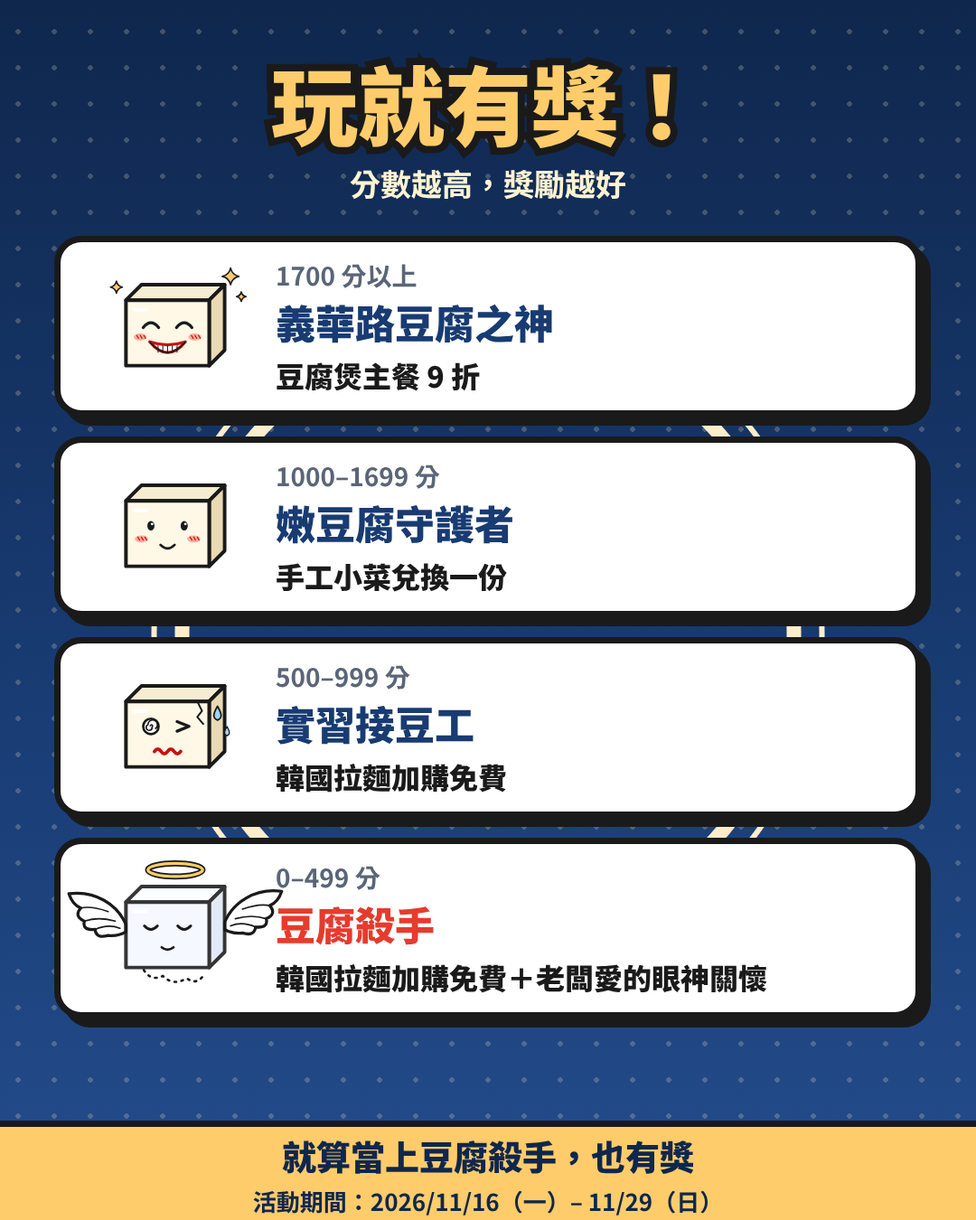
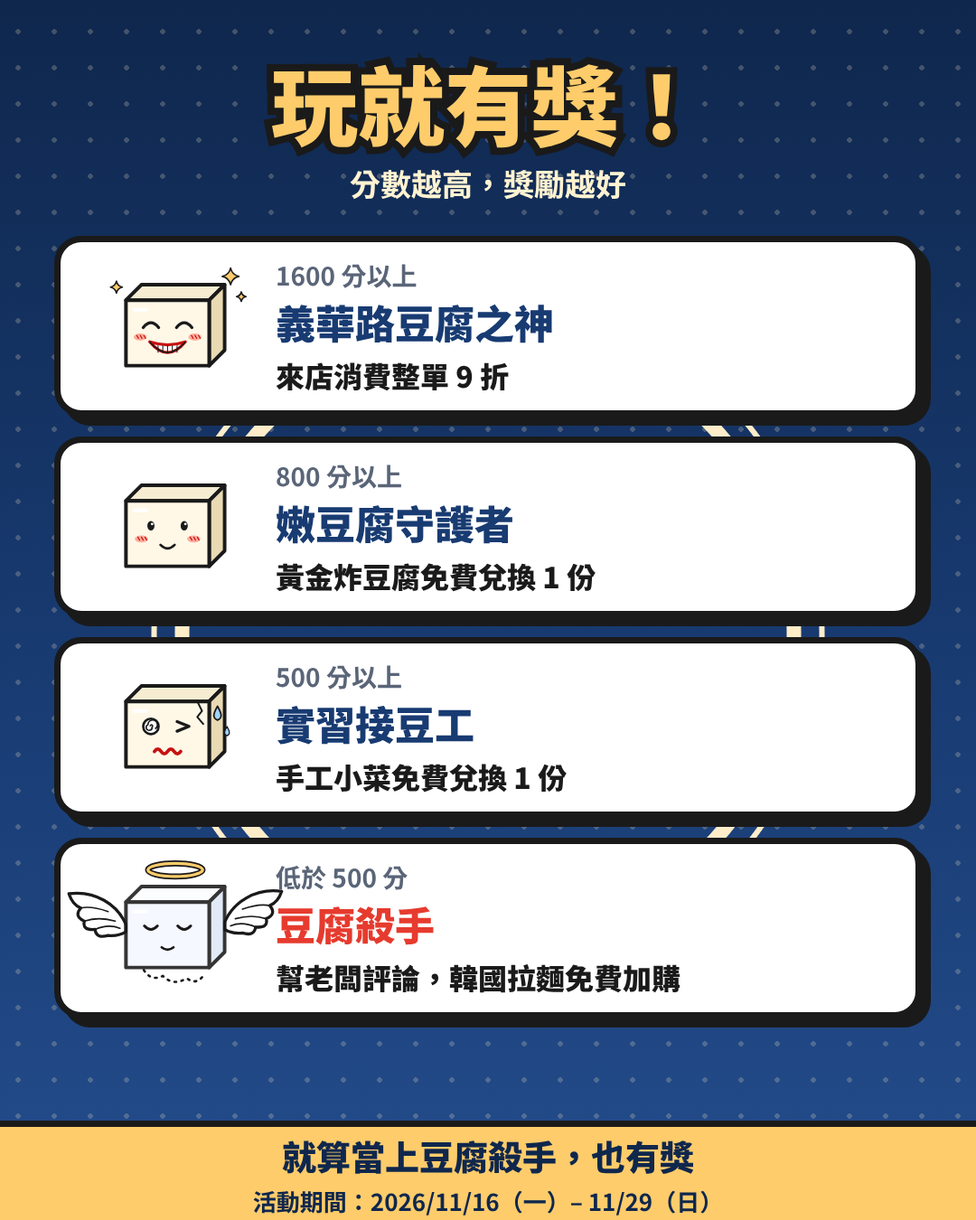
嫩豆腐接接樂：依業主修改調整獎勵與文案
- 獎勵改為 1600 整單 9 折／800 黃金炸豆腐／500 手工小菜／低於 500 幫老闆評論換韓國拉麵
- 遊戲、伺服器判斷、業主專區統計與規則同步
- 社群圖片重新輸出、分享多玩一局改為限時動態並標記

Claude-Session: https://claude.ai/code/session_01R1Sp5wUzmXaVmecPxoYTsS

diff --git a/owner/index.html b/owner/index.html
@@ -36,6 +36,7 @@ h3{font:900 16px/1.3 var(--font);margin:0 0 10px}
 .grid{display:grid;gap:16px}
 @media(min-width:720px){.g2{grid-template-columns:1fr 1fr}.g3{grid-template-columns:repeat(3,1fr)}.g4{grid-template-columns:repeat(4,1fr)}}
 .g4{grid-template-columns:1fr 1fr}
+#kpis{grid-template-columns:repeat(auto-fit,minmax(150px,1fr))}
 .btn{display:inline-flex;align-items:center;justify-content:center;gap:6px;font:900 15px var(--font);padding:10px 16px;border-radius:999px;border:3px solid var(--ink);background:var(--gold-400);color:var(--ink);box-shadow:3px 3px 0 var(--ink);cursor:pointer;text-decoration:none;white-space:nowrap}
 .btn:active{transform:translate(2px,2px);box-shadow:1px 1px 0 var(--ink)}
 .btn.ghost{background:#fff}.btn.danger{background:#fff;color:var(--chili)}
@@ -109,10 +110,11 @@ h3{font:900 16px/1.3 var(--font);margin:0 0 10px}
 <section id="overview">
   <h2>總覽</h2>
   <div class="grid g4" id="kpis">
-    <div class="card kpi"><span>累計兌換</span><b id="kTotal">—</b><small>小菜、拉麵等店內核銷</small></div>
+    <div class="card kpi"><span>累計兌換</span><b id="kTotal">—</b><small>炸豆腐、小菜、拉麵的店內核銷</small></div>
     <div class="card kpi"><span>今天兌換</span><b id="kToday">—</b><small id="kTodayDate">—</small></div>
-    <div class="card kpi"><span>手工小菜</span><b id="kSide">—</b><small>1000–1699 分</small></div>
-    <div class="card kpi"><span>韓國拉麵加購</span><b id="kRamen">—</b><small>0–999 分</small></div>
+    <div class="card kpi"><span>黃金炸豆腐</span><b id="kFried">—</b><small>800–1599 分</small></div>
+    <div class="card kpi"><span>手工小菜</span><b id="kSide">—</b><small>500–799 分</small></div>
+    <div class="card kpi"><span>韓國拉麵（評論）</span><b id="kRamen">—</b><small>低於 500 分</small></div>
   </div>
   <p class="muted" id="kHint">輸入業主 PIN 後顯示兌換數字。<a href="#records">前往兌換紀錄</a></p>
 
@@ -129,12 +131,12 @@ h3{font:900 16px/1.3 var(--font);margin:0 0 10px}
       </div>
     </div>
     <div class="card">
-      <h3>九折折扣碼（1700 分以上）</h3>
+      <h3>整單九折折扣碼（1600 分以上）</h3>
       <div class="link">
         <div class="qr"><svg width="33mm" height="33mm" version="1.1" viewBox="0 0 33 33" xmlns="http://www.w3.org/2000/svg"><path d="M2,2H3V3H2zM3,2H4V3H3zM4,2H5V3H4zM5,2H6V3H5zM6,2H7V3H6zM7,2H8V3H7zM8,2H9V3H8zM10,2H11V3H10zM11,2H12V3H11zM12,2H13V3H12zM13,2H14V3H13zM15,2H16V3H15zM17,2H18V3H17zM21,2H22V3H21zM22,2H23V3H22zM24,2H25V3H24zM25,2H26V3H25zM26,2H27V3H26zM27,2H28V3H27zM28,2H29V3H28zM29,2H30V3H29zM30,2H31V3H30zM2,3H3V4H2zM8,3H9V4H8zM10,3H11V4H10zM15,3H16V4H15zM19,3H20V4H19zM24,3H25V4H24zM30,3H31V4H30zM2,4H3V5H2zM4,4H5V5H4zM5,4H6V5H5zM6,4H7V5H6zM8,4H9V5H8zM11,4H12V5H11zM12,4H13V5H12zM13,4H14V5H13zM14,4H15V5H14zM18,4H19V5H18zM21,4H22V5H21zM22,4H23V5H22zM24,4H25V5H24zM26,4H27V5H26zM27,4H28V5H27zM28,4H29V5H28zM30,4H31V5H30zM2,5H3V6H2zM4,5H5V6H4zM5,5H6V6H5zM6,5H7V6H6zM8,5H9V6H8zM10,5H11V6H10zM12,5H13V6H12zM13,5H14V6H13zM14,5H15V6H14zM16,5H17V6H16zM17,5H18V6H17zM18,5H19V6H18zM19,5H20V6H19zM22,5H23V6H22zM24,5H25V6H24zM26,5H27V6H26zM27,5H28V6H27zM28,5H29V6H28zM30,5H31V6H30zM2,6H3V7H2zM4,6H5V7H4zM5,6H6V7H5zM6,6H7V7H6zM8,6H9V7H8zM12,6H13V7H12zM16,6H17V7H16zM18,6H19V7H18zM21,6H22V7H21zM24,6H25V7H24zM26,6H27V7H26zM27,6H28V7H27zM28,6H29V7H28zM30,6H31V7H30zM2,7H3V8H2zM8,7H9V8H8zM11,7H12V8H11zM13,7H14V8H13zM14,7H15V8H14zM15,7H16V8H15zM19,7H20V8H19zM20,7H21V8H20zM21,7H22V8H21zM22,7H23V8H22zM24,7H25V8H24zM30,7H31V8H30zM2,8H3V9H2zM3,8H4V9H3zM4,8H5V9H4zM5,8H6V9H5zM6,8H7V9H6zM7,8H8V9H7zM8,8H9V9H8zM10,8H11V9H10zM12,8H13V9H12zM14,8H15V9H14zM16,8H17V9H16zM18,8H19V9H18zM20,8H21V9H20zM22,8H23V9H22zM24,8H25V9H24zM25,8H26V9H25zM26,8H27V9H26zM27,8H28V9H27zM28,8H29V9H28zM29,8H30V9H29zM30,8H31V9H30zM10,9H11V10H10zM12,9H13V10H12zM17,9H18V10H17zM19,9H20V10H19zM20,9H21V10H20zM21,9H22V10H21zM2,10H3V11H2zM4,10H5V11H4zM5,10H6V11H5zM7,10H8V11H7zM8,10H9V11H8zM9,10H10V11H9zM14,10H15V11H14zM15,10H16V11H15zM19,10H20V11H19zM20,10H21V11H20zM24,10H25V11H24zM27,10H28V11H27zM29,10H30V11H29zM30,10H31V11H30zM2,11H3V12H2zM14,11H15V12H14zM15,11H16V12H15zM16,11H17V12H16zM17,11H18V12H17zM18,11H19V12H18zM19,11H20V12H19zM20,11H21V12H20zM21,11H22V12H21zM22,11H23V12H22zM24,11H25V12H24zM25,11H26V12H25zM26,11H27V12H26zM30,11H31V12H30zM2,12H3V13H2zM6,12H7V13H6zM8,12H9V13H8zM9,12H10V13H9zM10,12H11V13H10zM14,12H15V13H14zM15,12H16V13H15zM20,12H21V13H20zM25,12H26V13H25zM28,12H29V13H28zM29,12H30V13H29zM3,13H4V14H3zM6,13H7V14H6zM7,13H8V14H7zM9,13H10V14H9zM12,13H13V14H12zM13,13H14V14H13zM17,13H18V14H17zM24,13H25V14H24zM25,13H26V14H25zM30,13H31V14H30zM4,14H5V15H4zM6,14H7V15H6zM8,14H9V15H8zM9,14H10V15H9zM10,14H11V15H10zM11,14H12V15H11zM12,14H13V15H12zM14,14H15V15H14zM16,14H17V15H16zM19,14H20V15H19zM20,14H21V15H20zM27,14H28V15H27zM28,14H29V15H28zM3,15H4V16H3zM4,15H5V16H4zM6,15H7V16H6zM7,15H8V16H7zM9,15H10V16H9zM11,15H12V16H11zM14,15H15V16H14zM16,15H17V16H16zM18,15H19V16H18zM21,15H22V16H21zM24,15H25V16H24zM28,15H29V16H28zM29,15H30V16H29zM30,15H31V16H30zM2,16H3V17H2zM3,16H4V17H3zM5,16H6V17H5zM8,16H9V17H8zM10,16H11V17H10zM13,16H14V17H13zM14,16H15V17H14zM15,16H16V17H15zM18,16H19V17H18zM19,16H20V17H19zM20,16H21V17H20zM21,16H22V17H21zM22,16H23V17H22zM23,16H24V17H23zM26,16H27V17H26zM28,16H29V17H28zM29,16H30V17H29zM30,16H31V17H30zM2,17H3V18H2zM5,17H6V18H5zM6,17H7V18H6zM7,17H8V18H7zM9,17H10V18H9zM12,17H13V18H12zM13,17H14V18H13zM16,17H17V18H16zM18,17H19V18H18zM21,17H22V18H21zM22,17H23V18H22zM24,17H25V18H24zM25,17H26V18H25zM29,17H30V18H29zM4,18H5V19H4zM6,18H7V19H6zM7,18H8V19H7zM8,18H9V19H8zM10,18H11V19H10zM11,18H12V19H11zM14,18H15V19H14zM16,18H17V19H16zM21,18H22V19H21zM22,18H23V19H22zM23,18H24V19H23zM25,18H26V19H25zM26,18H27V19H26zM27,18H28V19H27zM29,18H30V19H29zM3,19H4V20H3zM5,19H6V20H5zM6,19H7V20H6zM10,19H11V20H10zM11,19H12V20H11zM14,19H15V20H14zM16,19H17V20H16zM20,19H21V20H20zM23,19H24V20H23zM25,19H26V20H25zM27,19H28V20H27zM28,19H29V20H28zM29,19H30V20H29zM2,20H3V21H2zM5,20H6V21H5zM6,20H7V21H6zM8,20H9V21H8zM11,20H12V21H11zM12,20H13V21H12zM13,20H14V21H13zM15,20H16V21H15zM16,20H17V21H16zM17,20H18V21H17zM19,20H20V21H19zM20,20H21V21H20zM22,20H23V21H22zM23,20H24V21H23zM25,20H26V21H25zM26,20H27V21H26zM28,20H29V21H28zM4,21H5V22H4zM5,21H6V22H5zM7,21H8V22H7zM11,21H12V22H11zM12,21H13V22H12zM15,21H16V22H15zM16,21H17V22H16zM19,21H20V22H19zM20,21H21V22H20zM21,21H22V22H21zM23,21H24V22H23zM24,21H25V22H24zM25,21H26V22H25zM26,21H27V22H26zM28,21H29V22H28zM3,22H4V23H3zM5,22H6V23H5zM6,22H7V23H6zM7,22H8V23H7zM8,22H9V23H8zM10,22H11V23H10zM13,22H14V23H13zM15,22H16V23H15zM16,22H17V23H16zM17,22H18V23H17zM19,22H20V23H19zM21,22H22V23H21zM22,22H23V23H22zM23,22H24V23H23zM24,22H25V23H24zM25,22H26V23H25zM26,22H27V23H26zM27,22H28V23H27zM28,22H29V23H28zM10,23H11V24H10zM14,23H15V24H14zM19,23H20V24H19zM21,23H22V24H21zM22,23H23V24H22zM26,23H27V24H26zM27,23H28V24H27zM28,23H29V24H28zM29,23H30V24H29zM30,23H31V24H30zM2,24H3V25H2zM3,24H4V25H3zM4,24H5V25H4zM5,24H6V25H5zM6,24H7V25H6zM7,24H8V25H7zM8,24H9V25H8zM10,24H11V25H10zM11,24H12V25H11zM14,24H15V25H14zM16,24H17V25H16zM18,24H19V25H18zM19,24H20V25H19zM21,24H22V25H21zM22,24H23V25H22zM24,24H25V25H24zM26,24H27V25H26zM27,24H28V25H27zM29,24H30V25H29zM2,25H3V26H2zM8,25H9V26H8zM10,25H11V26H10zM15,25H16V26H15zM16,25H17V26H16zM17,25H18V26H17zM22,25H23V26H22zM26,25H27V26H26zM27,25H28V26H27zM30,25H31V26H30zM2,26H3V27H2zM4,26H5V27H4zM5,26H6V27H5zM6,26H7V27H6zM8,26H9V27H8zM12,26H13V27H12zM19,26H20V27H19zM20,26H21V27H20zM22,26H23V27H22zM23,26H24V27H23zM24,26H25V27H24zM25,26H26V27H25zM26,26H27V27H26zM28,26H29V27H28zM2,27H3V28H2zM4,27H5V28H4zM5,27H6V28H5zM6,27H7V28H6zM8,27H9V28H8zM10,27H11V28H10zM12,27H13V28H12zM13,27H14V28H13zM14,27H15V28H14zM17,27H18V28H17zM19,27H20V28H19zM20,27H21V28H20zM22,27H23V28H22zM25,27H26V28H25zM26,27H27V28H26zM27,27H28V28H27zM30,27H31V28H30zM2,28H3V29H2zM4,28H5V29H4zM5,28H6V29H5zM6,28H7V29H6zM8,28H9V29H8zM10,28H11V29H10zM11,28H12V29H11zM13,28H14V29H13zM15,28H16V29H15zM18,28H19V29H18zM25,28H26V29H25zM28,28H29V29H28zM30,28H31V29H30zM2,29H3V30H2zM8,29H9V30H8zM12,29H13V30H12zM14,29H15V30H14zM17,29H18V30H17zM21,29H22V30H21zM22,29H23V30H22zM24,29H25V30H24zM27,29H28V30H27zM29,29H30V30H29zM2,30H3V31H2zM3,30H4V31H3zM4,30H5V31H4zM5,30H6V31H5zM6,30H7V31H6zM7,30H8V31H7zM8,30H9V31H8zM10,30H11V31H10zM13,30H14V31H13zM14,30H15V31H14zM17,30H18V31H17zM18,30H19V31H18zM21,30H22V31H21zM22,30H23V31H22zM24,30H25V31H24zM29,30H30V31H29z" id="qr-path" fill="#000000" fill-opacity="1" fill-rule="nonzero" stroke="none"/></svg></div>
         <div>
           <div class="code">8FNSP</div>
-          <p class="muted">客人出示 QR code 或折扣碼即可折抵，不需要店員核銷。使用次數請到 findpos 後台查詢。</p>
+          <p class="muted">客人出示 QR code 或折扣碼即可整單 9 折，不需要店員核銷。使用次數請到 findpos 後台查詢。</p>
           <a class="btn sm ghost" href="https://findpos.tw/coupon/3818/8FNSP" target="_blank" rel="noopener">findpos 折扣頁</a>
         </div>
       </div>
@@ -177,53 +179,55 @@ h3{font:900 16px/1.3 var(--font);margin:0 0 10px}
   <h2>社群貼文</h2>
   <div class="grid"><article class="post card"><header><b>FB 貼文</b><button class="btn sm" data-copy="p-fb">複製文案</button></header><pre id="p-fb">🍲 銓Dubu二店請支持…豆腐也請支持！
 
+🥢 嫩豆腐接接樂｜60 秒挑戰開始！
 老闆說，嫩豆腐很嫩，要溫柔一點才接得住。
 結果豆腐一直掉、一直碎，老闆血壓一直衝⋯⋯
 
-👉 【嫩豆腐接接樂】
-左右拖動石鍋接住豆腐，60 秒內越溫柔分數越高！
-衝太快？「嘟布～！」豆腐當場碎給你看。
-失誤 5 次，老闆會吐血昏倒（真的）。
+🎮 怎麼玩？超簡單！
+按住石鍋左右移動，接住掉下來的嫩豆腐。
+挑戰 60 秒，接越多、分數越高！
+失誤 5 次，老闆直接吐血昏倒
 
-🎁 玩就有獎，到店直接兌換：
-🥇 1700 分以上：豆腐煲主餐 9 折
-🥈 1000 分以上：手工小菜兌換一份
-🥉 500 分以上：韓國拉麵加購免費
-💀 豆腐殺手也有獎：拉麵加購免費＋老闆愛的眼神關懷
+🎁 玩遊戲就有機會拿好康！
+1600 分以上｜來店消費整單 9 折
+800 分以上｜黃金炸豆腐免費兌換1份
+500 分以上｜手工小菜免費兌換1份
+豆腐殺手(低於500分)｜幫老闆評論，韓國拉麵免費加購
 
-📅 活動期間：11/16（一）– 11/29（日）
+📅 活動期間：2026/11/16（一）– 11/29（日）
 🎮 遊戲連結：https://78vince.github.io/chuan-dubu/tofu-catch/
 📍 高雄市三民區義華路 468 號｜11:00–13:30、17:00–21:30
 ☎ 訂位 0902-268-213
 
-分享你的稱號到限動，可以多玩一局！
-你是「義華路豆腐之神」還是「豆腐殺手」？留言告訴我們 👇
+🔥分享遊戲稱號到限時動態並標記我們，就能多玩一局！
+留言告訴我們 你是： 👑「義華路豆腐之神」 還是 💀「豆腐殺手」？就把遊戲連結傳給你!
 
 #嫩豆腐接接樂 #二店請支持 #銓Dubu嘟布 #高雄美食 #三民區美食 #韓式豆腐煲</pre></article><article class="post card"><header><b>IG 貼文</b><button class="btn sm" data-copy="p-ig">複製文案</button></header><pre id="p-ig">🍲 銓Dubu二店請支持…豆腐也請支持！
 
+🥢 嫩豆腐接接樂｜60 秒挑戰開始！
 老闆說，嫩豆腐很嫩，要溫柔一點才接得住。
 結果豆腐一直掉、一直碎，老闆血壓一直衝⋯⋯
 
-👉 【嫩豆腐接接樂】
-左右拖動石鍋接住豆腐，60 秒內越溫柔分數越高！
-衝太快？「嘟布～！」豆腐當場碎給你看。
-失誤 5 次，老闆會吐血昏倒（真的）。
+🎮 怎麼玩？超簡單！
+按住石鍋左右移動，接住掉下來的嫩豆腐。
+挑戰 60 秒，接越多、分數越高！
+失誤 5 次，老闆直接吐血昏倒
 
-🎁 玩就有獎，到店直接兌換：
-🥇 1700 分以上：豆腐煲主餐 9 折
-🥈 1000 分以上：手工小菜兌換一份
-🥉 500 分以上：韓國拉麵加購免費
-💀 豆腐殺手也有獎：拉麵加購免費＋老闆愛的眼神關懷
+🎁 玩遊戲就有機會拿好康！
+1600 分以上｜來店消費整單 9 折
+800 分以上｜黃金炸豆腐免費兌換1份
+500 分以上｜手工小菜免費兌換1份
+豆腐殺手(低於500分)｜幫老闆評論，韓國拉麵免費加購
 
-📅 活動期間：11/16（一）– 11/29（日）
-🎮 遊戲連結在首頁
+📅 活動期間：2026/11/16（一）– 11/29（日）
+🎮 遊戲連結：個人檔案首頁連結
 📍 高雄市三民區義華路 468 號｜11:00–13:30、17:00–21:30
 ☎ 訂位 0902-268-213
 
-分享你的稱號到限動，可以多玩一局！
-你是「義華路豆腐之神」還是「豆腐殺手」？留言告訴我們 👇
+🔥分享遊戲稱號到限時動態並標記我們，就能多玩一局！
+留言告訴我們 你是： 👑「義華路豆腐之神」 還是 💀「豆腐殺手」？就把遊戲連結傳給你!
 
-#嫩豆腐接接樂 #二店請支持 #銓Dubu嘟布 #高雄美食 #三民區美食 #韓式豆腐煲</pre></article><article class="post card"><header><b>限動文字貼紙</b><button class="btn sm" data-copy="p-story">複製文案</button></header><pre id="p-story">你能接住幾塊嫩豆腐？👉（11/16–11/29，加連結貼紙：https://78vince.github.io/chuan-dubu/tofu-catch/）</pre></article></div>
+#嫩豆腐接接樂 #二店請支持 #銓Dubu嘟布 #高雄美食 #三民區美食 #韓式豆腐煲</pre></article><article class="post card"><header><b>限動文字貼紙</b><button class="btn sm" data-copy="p-story">複製文案</button></header><pre id="p-story">你是👑「義華路豆腐之神」還是💀「豆腐殺手」？60 秒接嫩豆腐，1600 分整單 9 折！（11/16–11/29，加連結貼紙：https://78vince.github.io/chuan-dubu/tofu-catch/）</pre></article></div>
 </section>
 
 <!-- 圖片 -->
@@ -241,17 +245,17 @@ h3{font:900 16px/1.3 var(--font);margin:0 0 10px}
       <h3>獎勵</h3>
       <table class="tbl">
         <tr><th>分數</th><th>稱號</th><th>獎勵</th></tr>
-        <tr><td>1700 以上</td><td>義華路豆腐之神</td><td>豆腐煲主餐 9 折（折扣碼 8FNSP，免核銷）</td></tr>
-        <tr><td>1000–1699</td><td>嫩豆腐守護者</td><td>手工小菜兌換一份</td></tr>
-        <tr><td>500–999</td><td>實習接豆工</td><td>韓國拉麵加購免費</td></tr>
-        <tr><td>0–499</td><td>豆腐殺手</td><td>韓國拉麵加購免費＋老闆愛的眼神關懷</td></tr>
+        <tr><td>1600 以上</td><td>義華路豆腐之神</td><td>來店消費整單 9 折（折扣碼 8FNSP，免核銷）</td></tr>
+        <tr><td>800–1599</td><td>嫩豆腐守護者</td><td>黃金炸豆腐免費兌換 1 份</td></tr>
+        <tr><td>500–799</td><td>實習接豆工</td><td>手工小菜免費兌換 1 份</td></tr>
+        <tr><td>低於 500</td><td>豆腐殺手</td><td>幫老闆評論，韓國拉麵免費加購</td></tr>
       </table>
     </div>
     <div class="card">
       <h3>店員兌換流程</h3>
       <ol class="rules">
-        <li><b>九折券</b>：看到 QR code 與折扣碼 8FNSP，結帳時掃描或輸入即可，不需核銷。</li>
-        <li><b>其他獎勵</b>：確認券面日期是今天、獎勵品項正確。</li>
+        <li><b>九折券</b>：看到 QR code 與折扣碼 8FNSP，結帳時掃描或輸入即可整單 9 折，不需核銷。</li>
+        <li><b>其他獎勵</b>：確認券面日期是今天、獎勵品項正確。<b>豆腐殺手</b>請先確認客人已幫老闆留下評論。</li>
         <li>在客人手機上按住「店員核銷」3 秒，出現「已兌換」章即完成，系統會自動記錄。</li>
         <li>已蓋「已兌換」章的券不能再用。</li>
       </ol>
@@ -259,7 +263,7 @@ h3{font:900 16px/1.3 var(--font);margin:0 0 10px}
     <div class="card">
       <h3>使用條件</h3>
       <ul class="rules">
-        <li>每支手機每天 1 局正式成績，分享結算圖後可以多 1 局。</li>
+        <li>每支手機每天 1 局正式成績；分享遊戲稱號到限時動態並標記我們，可以多玩 1 局。</li>
         <li>優惠券保留當天最高分，限當天到店使用。</li>
         <li>須點任一豆腐煲，每桌限用一張，不與其他優惠併用。</li>
       </ul>
@@ -283,9 +287,9 @@ const $ = id => document.getElementById(id);
 const API = location.protocol === 'file:' ? '' : /github\.io$/.test(location.hostname) ? 'https://chuan-dubu.vercel.app/api' : '/api';
 const START = '2026/11/16', END = '2026/11/29';
 const TIERS = [
-  {name: '嫩豆腐守護者', reward: '手工小菜兌換一份', range: '1000–1699 分'},
-  {name: '實習接豆工', reward: '韓國拉麵加購免費', range: '500–999 分'},
-  {name: '豆腐殺手', reward: '韓國拉麵加購免費＋老闆愛的眼神關懷', range: '0–499 分'},
+  {name: '嫩豆腐守護者', reward: '黃金炸豆腐免費兌換 1 份', range: '800–1599 分'},
+  {name: '實習接豆工', reward: '手工小菜免費兌換 1 份', range: '500–799 分'},
+  {name: '豆腐殺手', reward: '幫老闆評論，韓國拉麵免費加購', range: '低於 500 分'},
 ];
 const tpe = new Intl.DateTimeFormat('zh-TW', {timeZone: 'Asia/Taipei', year: 'numeric', month: '2-digit', day: '2-digit', hour: '2-digit', minute: '2-digit', hour12: false});
 const tpeDay = d => new Intl.DateTimeFormat('en-CA', {timeZone: 'Asia/Taipei', year: 'numeric', month: '2-digit', day: '2-digit'}).format(d).replace(/-/g, '/');
@@ -348,8 +352,9 @@ function render() {
   const day = r => tpeDay(new Date(r.redeemedAt));
   $('kTotal').textContent = list.length;
   $('kToday').textContent = list.filter(r => day(r) === today).length; $('kTodayDate').textContent = today.slice(5);
-  $('kSide').textContent = list.filter(r => r.tier === '嫩豆腐守護者').length;
-  $('kRamen').textContent = list.filter(r => r.tier !== '嫩豆腐守護者').length;
+  $('kFried').textContent = list.filter(r => r.tier === '嫩豆腐守護者').length;
+  $('kSide').textContent = list.filter(r => r.tier === '實習接豆工').length;
+  $('kRamen').textContent = list.filter(r => r.tier === '豆腐殺手').length;
   // 每日
   const days = []; for (let d = new Date('2026-11-16T12:00:00+08:00'); tpeDay(d) <= END; d = new Date(d.getTime() + 864e5)) days.push(tpeDay(d));
   const cnt = days.map(d => list.filter(r => day(r) === d).length), max = Math.max(1, ...cnt);
@@ -369,7 +374,7 @@ function render() {
 $('pinForm').onsubmit = e => { e.preventDefault(); PIN = $('pin').value.trim(); if (PIN) { $('pinErr').textContent = ''; load(); } };
 $('showTest').onchange = render;
 $('reload').onclick = async () => { if (await load()) toast('已更新'); };
-$('logout').onclick = () => { PIN = ''; all = []; try { localStorage.removeItem('owner-pin'); } catch (e) {} $('pin').value = ''; $('gate').hidden = false; $('board').hidden = true; $('kHint').hidden = false; ['kTotal', 'kToday', 'kSide', 'kRamen'].forEach(id => $(id).textContent = '—'); };
+$('logout').onclick = () => { PIN = ''; all = []; try { localStorage.removeItem('owner-pin'); } catch (e) {} $('pin').value = ''; $('gate').hidden = false; $('board').hidden = true; $('kHint').hidden = false; ['kTotal', 'kToday', 'kFried', 'kSide', 'kRamen'].forEach(id => $(id).textContent = '—'); };
 $('purge').onclick = async () => {
   const n = all.filter(r => r.test).length;
   if (!confirm(`清除 ${n} 筆測試資料？清除後無法復原。`)) return;

diff --git a/tofu-catch/index.html b/tofu-catch/index.html
@@ -170,6 +170,7 @@ canvas{position:absolute;left:0;top:0;width:390px;height:844px;display:block}
 .cp .r{font:900 28px/1.25 "Noto Sans TC";color:var(--gold-400);margin:8px 0}
 .cp .verify{display:inline-block;background:var(--ink);color:#fff;border-radius:999px;padding:6px 14px;font:700 14px "Noto Sans TC";margin:10px 0}
 .cp.item .r{font-size:30px}
+.cp .r{word-break:keep-all;overflow-wrap:anywhere}
 .cp .code{display:inline-block;background:#fff;color:var(--ink);border:3px solid var(--ink);border-radius:var(--radius-md);padding:6px 18px;font:900 26px "Noto Sans TC";letter-spacing:.12em;margin:10px 0}
 .cp .qr{display:flex;flex-direction:column;align-items:center;gap:6px;margin:4px 0 10px}.cp .qr img{width:150px;height:150px;background:#fff;border:3px solid var(--ink);border-radius:10px;padding:4px}.cp .qr span{font:700 12px 'Noto Sans TC';color:var(--gold-100)}
 .cp .cap{font:700 12px/1.5 "Noto Sans TC";color:var(--gold-100)}
@@ -239,16 +240,16 @@ canvas{position:absolute;left:0;top:0;width:390px;height:844px;display:block}
       <div><img data-sprite="item-egg" alt=""><span>生雞蛋 <b>0</b><br>蛋液擋畫面 3 秒</span></div>
     </div></div>
     <div class="rbox"><h3>獎勵</h3><table class="tiers">
-      <tr><td>1700 分以上</td><td>義華路豆腐之神｜豆腐煲主餐 9 折（QR code＋折扣碼）</td></tr>
-      <tr><td>1000–1699 分</td><td>嫩豆腐守護者｜手工小菜兌換一份</td></tr>
-      <tr><td>500–999 分</td><td>實習接豆工｜韓國拉麵加購免費</td></tr>
-      <tr><td>0–499 分</td><td>豆腐殺手｜韓國拉麵加購免費＋老闆愛的眼神關懷</td></tr>
+      <tr><td>1600 分以上</td><td>義華路豆腐之神｜來店消費整單 9 折（QR code＋折扣碼）</td></tr>
+      <tr><td>800–1599 分</td><td>嫩豆腐守護者｜黃金炸豆腐免費兌換 1 份</td></tr>
+      <tr><td>500–799 分</td><td>實習接豆工｜手工小菜免費兌換 1 份</td></tr>
+      <tr><td>低於 500 分</td><td>豆腐殺手｜幫老闆評論，韓國拉麵免費加購</td></tr>
     </table></div>
     <div class="rbox"><h3>兌換規則</h3><ol>
-      <li>每支手機每天 1 局正式成績，分享結算圖後可以多 1 局。</li>
+      <li>每支手機每天 1 局正式成績，分享遊戲稱號到限時動態並標記我們，就能多玩 1 局。</li>
       <li>優惠券保留當天最高分，當天到店使用。</li>
       <li>限銓Dubu嘟布韓式豆腐煲 義華店，須點任一豆腐煲，每桌限用一張，不與其他優惠併用。</li>
-      <li>9 折券：結帳時出示 QR code 或折扣碼即可折抵。其他獎勵：出示優惠券，店員確認品項後長按 3 秒核銷。</li>
+      <li>9 折券：結帳時出示 QR code 或折扣碼即可整單折抵。其他獎勵：出示優惠券，店員確認品項後長按 3 秒核銷；豆腐殺手須先幫老闆留下評論。</li>
       <li>高雄市三民區義華路 468 號｜11:00–13:30、17:00–21:30｜訂位 0902-268-213</li>
     </ol></div>
     <button class="btn wide" id="rulesBtn">我知道了，下一步</button>
@@ -308,7 +309,7 @@ canvas{position:absolute;left:0;top:0;width:390px;height:844px;display:block}
 
   <section id="share" class="screen">
     <img id="shareImg" alt="結算分享圖">
-    <p>長按圖片存到手機，<br>分享到 FB 或 IG 限動。</p>
+    <p>長按圖片存到手機，<br>分享到限時動態並標記我們，就能多玩一局！</p>
     <button class="btn wide" id="sharedBtn">我分享了，再玩一局</button>
     <button class="link" id="shareClose">先不要</button>
   </section>
@@ -446,6 +447,7 @@ $('mute').onclick = () => { muted = !muted; if (muted) { try { speechSynthesis.c
 let lockTimer = 0;
 function show(id) {
   document.querySelectorAll('.screen').forEach(s => s.classList.toggle('on', s.id === id));
+  if (id !== 'game') { const tu = document.getElementById('timeup'); if (tu) tu.classList.remove('on'); }
   // 結算相關畫面：按鈕先鎖 0.9 秒，避免遊戲中的手指誤觸
   if (['faint', 'result', 'coupon'].includes(id)) { const el = $(id); el.classList.add('lock'); clearTimeout(lockTimer); lockTimer = setTimeout(() => el.classList.remove('lock'), 900); }
 }
@@ -476,10 +478,10 @@ const LINES = {
   cheer: ['대박!', '맛있다!', '오오오!'],
 };
 const RANKS = [
-  {min: 1700, name: '義華路豆腐之神', sub: '你的手比嫩豆腐還溫柔。', reward: '豆腐煲主餐 9 折', img: 'tofu-perfect', fixedCode: true},
-  {min: 1000, name: '嫩豆腐守護者',   sub: '豆腐們都很安心。',       reward: '手工小菜兌換一份', img: 'tofu-perfect'},
-  {min: 500,  name: '實習接豆工',     sub: '還在學習溫柔的路上。',   reward: '韓國拉麵加購免費', img: 'tofu-barely'},
-  {min: 0,    name: '豆腐殺手',       sub: '老闆已經哭到脫水了。',   reward: '韓國拉麵加購免費＋老闆愛的眼神關懷', img: 'tofu-ghost'},
+  {min: 1600, name: '義華路豆腐之神', sub: '你的手比嫩豆腐還溫柔。', reward: '來店消費整單 9 折', img: 'tofu-perfect', fixedCode: true},
+  {min: 800,  name: '嫩豆腐守護者',   sub: '豆腐們都很安心。',       reward: '黃金炸豆腐免費兌換 1 份', img: 'tofu-perfect'},
+  {min: 500,  name: '實習接豆工',     sub: '還在學習溫柔的路上。',   reward: '手工小菜免費兌換 1 份', img: 'tofu-barely'},
+  {min: 0,    name: '豆腐殺手',       sub: '老闆已經哭到脫水了。',   reward: '幫老闆評論，韓國拉麵免費加購', img: 'tofu-ghost', review: true},
 ];
 const pick = a => a[Math.floor(Math.random() * a.length)];
 
@@ -808,7 +810,7 @@ function showResult() {
 /* ---------- coupon ---------- */
 function showCoupon() {
   const c = day.coupon; if (!c) return;
-  $('cpDate').textContent = `優惠券｜${day.date}`; const rk = RANKS.find(r => c.score >= r.min), top = !!rk.fixedCode; $('cpReward').textContent = rk.reward; $('cpRank').textContent = `${rk.name}・${c.score} 分`; $('cpCode').textContent = DISCOUNT_CODE; $('cpCode').classList.toggle('hidden', !top); $('cpQr').classList.toggle('hidden', !top); if (top) $('cpQrImg').src = QR_URL; $('cpVerify').classList.toggle('hidden', top); $('cp').classList.toggle('item', !top); $('redeem').classList.toggle('hidden', top); $('cpHint').textContent = top ? '結帳時出示 QR code 或折扣碼，即可享 9 折。' : '拿給店員看，店員確認後核銷。';
+  $('cpDate').textContent = `優惠券｜${day.date}`; const rk = RANKS.find(r => c.score >= r.min), top = !!rk.fixedCode; $('cpReward').textContent = rk.reward; $('cpRank').textContent = `${rk.name}・${c.score} 分`; $('cpCode').textContent = DISCOUNT_CODE; $('cpCode').classList.toggle('hidden', !top); $('cpQr').classList.toggle('hidden', !top); if (top) $('cpQrImg').src = QR_URL; $('cpVerify').classList.toggle('hidden', top); $('cp').classList.toggle('item', !top); $('redeem').classList.toggle('hidden', top); $('cpHint').textContent = top ? '結帳時出示 QR code 或折扣碼，即可享整單 9 折。' : rk.review ? '幫老闆留下評論後拿給店員看，確認後核銷。' : '拿給店員看，店員確認後核銷。';
   $('cp').classList.toggle('used', !top && !!c.redeemed); $('redeem').disabled = !!c.redeemed; $('redeem').querySelector('span').textContent = c.redeemed ? '已兌換' : '店員核銷（長按 3 秒）';
   show('coupon');
 }

diff --git a/api/_lib.js b/api/_lib.js
@@ -2,12 +2,12 @@
 const URL_ = process.env.KV_REST_API_URL || process.env.UPSTASH_REDIS_REST_URL;
 const TOKEN = process.env.KV_REST_API_TOKEN || process.env.UPSTASH_REDIS_REST_TOKEN;
 
-// 與遊戲 RANKS 相同；1700 以上為九折（固定折扣碼，不需核銷、不記錄）
+// 與遊戲 RANKS 相同；1600 以上為九折（固定折扣碼，不需核銷、不記錄）
 const RANKS = [
-  {min: 1700, name: '義華路豆腐之神', reward: '豆腐煲主餐 9 折', fixedCode: true},
-  {min: 1000, name: '嫩豆腐守護者', reward: '手工小菜兌換一份'},
-  {min: 500, name: '實習接豆工', reward: '韓國拉麵加購免費'},
-  {min: 0, name: '豆腐殺手', reward: '韓國拉麵加購免費＋老闆愛的眼神關懷'},
+  {min: 1600, name: '義華路豆腐之神', reward: '來店消費整單 9 折', fixedCode: true},
+  {min: 800, name: '嫩豆腐守護者', reward: '黃金炸豆腐免費兌換 1 份'},
+  {min: 500, name: '實習接豆工', reward: '手工小菜免費兌換 1 份'},
+  {min: 0, name: '豆腐殺手', reward: '幫老闆評論，韓國拉麵免費加購'},
 ];
 const LIST = 'tofu-catch:redeems';
 const KEY = id => 'tofu-catch:redeem:' + id;

diff --git a/README.md b/README.md
@@ -24,7 +24,7 @@
 
 ## 兌換紀錄怎麼運作
 
-- 只記錄 1700 分以下的獎勵（小菜、拉麵）。九折券用固定折扣碼 `8FNSP`，不需核銷，使用次數到 findpos 後台查。
+- 只記錄 1600 分以下的獎勵（黃金炸豆腐、手工小菜、韓國拉麵）。九折券用固定折扣碼 `8FNSP`，不需核銷，使用次數到 findpos 後台查。
 - 店員在客人手機上長按「店員核銷」3 秒 → 遊戲送出一筆紀錄（每張券一個編號，重送不會重複計算）。網路不通時先存在手機，下次開遊戲或恢復連線自動補送。
 - 分數對應的獎項由伺服器重新判斷，不信任手機送來的獎項名稱。
 - 預覽版（`PREVIEW = true`）或 `?test=1` 產生的紀錄會標成「測試」，業主頁面可一鍵清除。
@@ -37,5 +37,5 @@
 
 - 活動期間 2026/11/16–11/29（`EVENT_START`／`EVENT_END`），期間外只能試玩、不發券。
 - 目前是預覽版：`PREVIEW = true` 不限日期、每局依分數發券。上線前改回 `false`，並在業主頁面清除測試資料。
-- 1700 分以上發 9 折固定折扣碼 `8FNSP`（findpos 店號 3818），券面附 QR code。9 折券不需店員核銷；其餘級距券面只顯示獎勵品項，由店員確認後核銷並自動記錄。
+- 1600 分以上：整單 9 折，固定折扣碼 `8FNSP`（findpos 店號 3818），券面附 QR code，不需店員核銷。800 分以上黃金炸豆腐、500 分以上手工小菜、低於 500 分幫老闆評論換韓國拉麵加購；這三種由店員確認後核銷並自動記錄。
 - 錄製的語音檔填進 `VOICE_CLIPS`。
